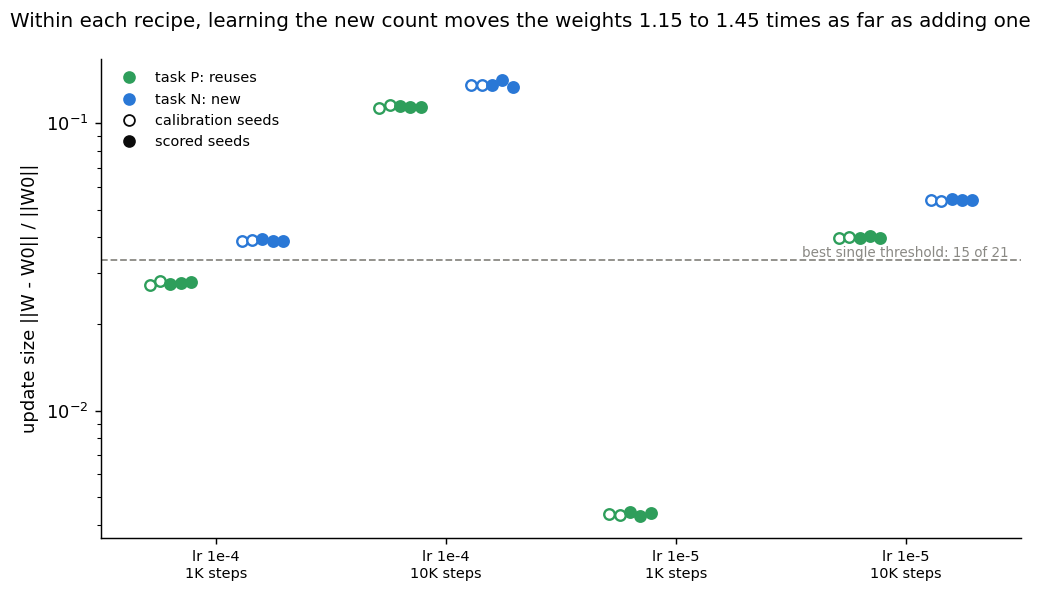
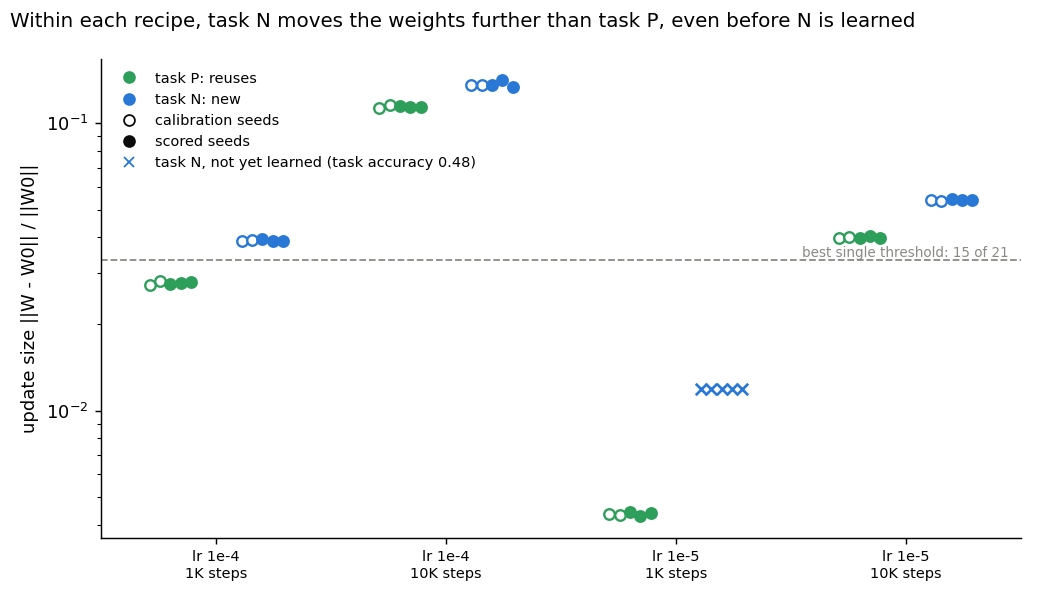
E55 C1b analysis: apply independent check (no scored reading in the calibration gap; post hoc labeller 18/18 + 3 by cell; unlearned N 1e-5 1K update size 0.0119 in table and figure; scored-only ranges; recipe-ceiling target missed; C1b's own steering noise 0.021)

diff --git a/experiments/pcfg_anchors/plot_c1b.py b/experiments/pcfg_anchors/plot_c1b.py
@@ -229,6 +229,19 @@ def fig_update_size(c: dict[str, Any], out: str = "c1b_update_size.png") -> None
                 lw=1.3,
                 zorder=3,
             )
+    for sid, place in c[
+        "placement"
+    ].items():  # task N at lr 1e-5, 1K: not yet learned, outside the truth set
+        if place == "not yet learned":
+            m = c["meta"][sid]
+            ax.scatter(
+                xpos(m, m["seed"]),
+                c["nuisance"][sid]["update_size"],
+                s=40,
+                marker="x",
+                color=NEW_C,
+                zorder=3,
+            )
     ax.axhline(t, color=MUTED, ls="--", lw=1)
     ax.text(
         3.45,
@@ -246,12 +259,13 @@ def fig_update_size(c: dict[str, Any], out: str = "c1b_update_size.png") -> None
     handles = [Line2D([], [], marker="o", ls="", color=EX_C, label="task P: reuses"),
                Line2D([], [], marker="o", ls="", color=NEW_C, label="task N: new"),
                Line2D([], [], marker="o", ls="", color=INK, mfc="white", label="calibration seeds"),
-               Line2D([], [], marker="o", ls="", color=INK, label="scored seeds")]  # fmt: skip
+               Line2D([], [], marker="o", ls="", color=INK, label="scored seeds"),
+               Line2D([], [], marker="x", ls="", color=NEW_C, label="task N, not yet learned (task accuracy 0.48)")]  # fmt: skip
     ax.legend(handles=handles, fontsize=8, frameon=False, loc="upper left")
     finish(
         fig,
         out,
-        "Within each recipe, learning the new count moves the weights 1.15 to 1.45 times as far as adding one",
+        "Within each recipe, task N moves the weights further than task P, even before N is learned",
     )
 
 

diff --git a/experiments/TRIED.md b/experiments/TRIED.md
@@ -110,7 +110,7 @@ Codes E1–E13 are the ones the research log ("Update Decomposition", see `READM
 | E53 Amendment 2 | Kind or breadth, settled with saved states: does the stand-in ratio separate a performed update from a new one when the two are equally broad? (`experiments/performed_anchor/run.py a2_read`, `score.score_amend2`, `performed.changed_mask`, 2026-10-30; plan `reports/plans/2026-10-29_plan_performed-anchor.md` section "Amendment 2", step 1 of the adopted programme `reports/plans/2026-10-30_plan_regating-development-FABLE-DRAFT.md`; predictions `results/predictions_amend2.json`; cluster debug L40, one job, $0; no fine-tune) | Stage 0 first: E53 lowercase/cipher s0 re-read (G, ratio, kl_off exact), E54 elicit/cipher s0 G within 0.02, corrected = uncorrected off-target KL bit for bit on both token-map ciphers, kl_read = split read on lowercase, changed mask ⊇ scored. Breadth = G / true off-target KL, now leaving out every position whose next token the task changed (lowercase: 13.4 changed-not-scored positions per window beside 9.9 scored). P1 (scored): min corrected lowercase breadth ≥ max broad-cipher breadth, step 300. P2 (scored): on E54's four saved states (elicit step 10, cipher step 9 at matched ‖δW‖, 97 held-out windows of 41 tokens, KL at every position but the key's), x = min elicit / max cipher breadth: ≥ 1 reversed, ≥ 1/1.5 matched, else confounded. Reading: P2 reversed or matched → breadth does not explain the separation; confounded and P1 missed → branch B (broader-cipher ladder). E54's stand-in ratios from its `stage2.json` cells (computed post hoc by the planner before filing; an input, not a filed prediction) | Ran (job 46174, commit e4b7965, results 5c311dd; 67 s, $0; analysis section "Amendment 2" of `reports/analyses/2026-10-29_analysis_e53-performed-anchor.md`, notebook part in `notebooks/E53_performed_anchor.ipynb`, figures `figures/a2_{breadth,ratio_breadth}.png` from `plot_amend2.py`). Stage 0 all passed (E53 repro exact; E54 G 10.796 vs 10.791, 11.100 vs 11.102; identity exact). **P1 missed** (as leaned, 0.7): corrected lowercase 6.57 / 5.87 (was 4.92 / 4.46; KL per changed position 1.00 / 1.04 nats, above the plan's 0.8, so s0 above the expected 5.4-6.0) vs broad cipher 7.81 / 7.74. **P2 reversed**, x = 2.21: E54 elicit 49.0 / 55.3 vs cipher 22.2 / 19.5 (off-target KL 0.22 / 0.20 vs 0.50 / 0.56 at matched G 10.8 vs 11.1 / 10.9), so the high-ratio member (elicit, ratio 0.956 / 0.951) is the MORE targeted one, against the cipher's 0.336 / 0.289. **Reading: breadth does not explain the separation.** Breadth compares within a pair only (E53 on 127-token Pile windows, E54 on 41-token marker windows after a recipe with a KL term) | Programme step 1 closed: the ratio orders by kind in both breadth orders across two task families, so it goes to step 2 (ratio and r on E55's labelled states) as a candidate reading of kind at VPD's piece level. Still open: E53's pair alone stays confounded (no Pile update as broad as lowercase read); E54's ratio is from its route-split cells, unread by E53's code and without an interval; "performed" in E54 is weak (rank 2-20); a new circuit from old pieces reads elicited; one mean steering vector moves a real part of E54's elicit map, its gap under E54's filed bar and a sixth to a tenth of r's gap in r's unit (E54 Amendment 1). Branch B not run |
 | E55 | Reuse anchors, Stage A: on Jain et al.'s counting grammar, does a fine-tune that learns to count b run through the model's existing count of a, judged by behaviour and an interchange patch with no decomposition? (`experiments/pcfg_anchors/`, `src/commute/pcfg.py`, `src/commute/interchange.py`, 2026-10-29; plan `reports/plans/2026-10-29_plan_reuse-stage1.md` Revision 1; predictions `results/predictions.json`, four filings, A2 bars filed before any fine-tune; analysis `reports/analyses/2026-10-29_analysis_e55-stage-a.md`, corrected after review `reports/reviews/2026-10-29_review_e55-stage-a-analysis.md`, notebook `notebooks/E55_pcfg_anchors.ipynb`, figures `figures/{controls,probe,labels,table6}.png` from `plot.py`, log figures from `plot_log.py`; MATS cluster debug, jobs a0 44244, a1 44268-44270, a1c 44306/44307, a2 44328-44330, $0) | minGPT 6 blocks d 192 (~3M), 50K pretraining steps, three Counter priors: LOW (counts a), HIGH (a, b, c), NEVER (b only). Fine-tunes to count b from LOW at lr {1e-4, 1e-5} × spurious share {0, 0.5, 0.8, 1} (Table 6 grid; spurious rows set count(b) = count(a) + 1), plus R from HIGH; seed 1 of N1 and W1; states at 1K and 10K. Checks at `=`: behaviour B (share answering count(a) + 1, or count(b)) and patch P (residual after block 5 swapped from a donor with the same other count; share following the donor), bars from A1 nulls and positives (count a: B 0.10/0.50, P 0.097/0.483; count b: B 0.342/0.635, P 0.10/0.50). Possession: linear probe margin over shuffled-label (and NEVER) controls, bar 0.5 × LOW's count-a margin | Controls clean: P at block 5 0.966 (LOW count a) and 1.000 (HIGH count b), every null 0 at every block; LOW's count-b accuracy 0.2215 = the score of answering count(a). PA1 pass. PA2 pass at the cap: 7 of 9 10K cells within 15 points; W1 17.7 (on the count(a) + 1 floor 17.65) and W2 25.95 miss. **PA3 missed, not reversed** (4 of 7): W1 1K through count a (B 0.88, P 0.72; seed 1 0.90, 0.76), W1 10K neither (0.40, 0.36, both seeds), W2 neither at 1K (B 0.488 vs hi 0.4999) and 10K; N1 not through at both (B = P = 0); R through count b. Every N and M state at 10K: B = P = 0 for count a, through count b; also loses LOW's count-a task (0.2175, as NEVER). Fast arms never through count a; the slow 80%-spurious arm M3 is through count a at 1K (B 0.631, P 0.594; the plan leaned this way for M2 and M3) and not through at 10K; M2 1K neither (P 0.519 over hi, B 0.430). W at 10K: last-block swap 0.64 (count a) and 0.57 (count b), so the answer depends on both. A count-c-only answer is ruled out for W1 at 10K: since a + b + c = 40, any f(count c) with B_b <= 0.01 reaches B_a <= 0.105 vs 0.399 read (65K windows, no model); the midpoint of count(a) + 1 and count(b), rounded towards count(a) + 1, gives (0.408, 0.000) and fits, untested. W2 10K (0.292, 0.102) not excluded. B and P never point opposite ways (null: 0 of 17). PA4 pass by its rule, narrowly: LOW count-b margin 0.277 at block 2 vs bar 0.260 (3 s 0.032); controls uneven (count-a margin also subtracts NEVER, which decodes count a at 0.44-0.52; count-b margin subtracts shuffled labels only; count(a) alone predicts count(b) at 0.40). Each A2 cell read once, binomial sd ~0.016 near 0.5; no count-a label rests on a cell within noise. Stage C truth set: 2 through (M3 1K, W1 1K), 9 not, 5 neither (plan expected 6/8/2); pass bar for n = 11 is 10. **Amendment 1** (`amend1.py`, `results/predictions_amend1.json` filed twice before the run, `results/amend1.json`, job 44439, $0, figures `amend1_{trajectory,rounding,offsets}.png` from `plot_amend1.py`): per-row answers on 8,000 natural rows against four rules (count(a) + 1, count(b), count(a), midpoint of count(a) + 1 and count(b) rounded towards count(a) + 1) plus a rounding read that separates the midpoint from count c alone. Controls all pass (6 synthetic answerers, N1 10K route b, LOW route a). AM1 met (W1, W1s1 1K route count(a) + 1, S 0.82, 0.86). **AM2 missed**: W1, W1s1 10K route mixed, S_mid 0.50 < 0.81; above count(a) + 1 they round as the midpoint (0.99, 1.00), below only 0.35, 0.37. AM3 10K met (W2 10K midpoint, S_mid 0.998, both halves), AM3 1K missed (W2 1K already mixed, S_a+1 0.15). AM4 met (no fixed rounding, so no count-c-only answer). AM5: re-run reproduces B, P within 0.002 but max abs dw 4e-4 to 2.4e-3 (sibling run; losses differ by step 500 on the same data, cause unmeasured: kernels, card, compile or resume steps); through count a at 2K, neither from 3K; rule switch missed. Exploration, not filed: W1 and W1s1 at 10K answer round((2(count(a) + 1) + count(b)) / 3), a third of the way from count(a) + 1 to count(b), on 97.8% and 98.1% of rows and on all 92 rows where it differs from the four rules; below count(a) + 1 they answer count(a) where count(b) is 1-3 below count(a), one step nearer count(a) + 1 than the midpoint. No A2 label changes. **Amendment 2** (`amend2.py`, `results/predictions_amend2.json` filed before the run, `results/amend2.json`, job 44520, $0, figures `amend2_{fresh,unseen}.png` from `plot_amend2.py`): the one-third rule filed and read on 20,000 fresh natural rows. All filed fresh-row predictions met: W1, W1s1 10K route third (S 0.991 on its 219 own rows, 0.977 and 0.981 of all rows, 0.21 over the best rule of count c alone); W2 1K third (0.982); W2 10K mid (S 1.0; mid 0.10 over count c alone); W1 1K still a+1. A within-pair replication only (fresh rows repeat amend1's (a, b) cells, code review finding 1). The unseen-pair read (8,949 rows built by a/c swaps, count a 2-9 or 17-24) was void: 0 rows where LOW answers count(a); model-free diagnosis, corrected after the independent check reports/reviews/2026-10-29_review_e55-amend2-analysis.md: rebuilt counts match (no bug), but the swap-built rows break both controls, more the larger the swap: N1's untouched count(b) is exact on 0.87 of rows at 2 letters swapped and 0.14 at 8; above 17 LOW answers roughly the pre-swap count(a) (mode 4 at a = 21-24), and fails all 341 rows in the in-range pair (17, 13); below 10 a clip near 10 may add. The two fresh rows in new pairs where third is distinct, (17, 10) and (17, 9), are answered 16 by every state following third, not its 15 (0 of 2). A natural-text unseen set in 5 in-range pairs costs CPU seconds to minutes; Amendment 3 (being written) builds it and checks Stage A's spurious-row accuracy by swap size, since the fine-tuning and spurious test rows use the same swap step. **Amendment 3** (`amend3.py`, `results/predictions_amend3.json` filed before the run with a dated addition after `reports/reviews/2026-10-29_review_e55-amend3-code.md`, `results/amend3.json`, job 44652, $0, figures `amend3_{swap,pairs}.png` from `plot_amend3.py`, log figure `log_amend3_swap.png`): natural rows in 15 rare pairs (8M texts, ≤ 200 rows per pair) and Stage A's 4,000 C_Te = 1 rows re-read by a/c swap size. All 18 controls pass. P1 met: LOW counts a on natural (17, 13) at 0.995 (0 of 341 swap-built), so the swap broke it, not the pair. P1b: LOW answers 10 at count a 9 (233 rows) and 17 at 18 (11 rows); N1 likewise answers 10 at count b 9 and 17 at 18 (both bases clip to 10-17, cause untested). P2 void at both seeds (1 valid new pair, (17, 10), of 6; the filed most-likely outcome); P2b met: at (17, 10) W1, W1s1 10K answer 16 on every row, not third's 15. Descriptive only, invalid pairs: W1 10K answers third at (15, 9), (17, 9), (9, 14), (9, 17), (9, 16), (11, 18), count a − 1 at (17, 10), (16, 9), (18, 11); W2 10K answers mid in every pair. Part 2: share right falls with swap size (within-b slope, drop over a swap of 3) for LOW count a (0.871, sd 0.018; overall 0.446: 1.00, 0.63, 0.18, 0.02 at swaps 0-3; P4 met, coverage far under the expected 0.85-0.95, pre-swap share falls, not rises), HIGH count a (0.870, overall 0.50), NEVER, HIGH count b, N1 and N1s1 10K (0.149, 0.168; P3 met), M 10K (0.105), R 10K (0.291) (P6b met: Stage A's spurious column for natural-only arms partly measures the swap); every arm trained on swap-built rows flat, 0.999-1.000 at 10K (P5 met) and W1, W1s1 1K 0.9945, M3 1K 0.985. P6a: B, P, nulls and references read natural text only (code path), so Stage A's labels stand; P6c qualified: LOW's own count gives the W arms' training label on under half of rows built that way (training rows 18% unswapped, same mix; not read directly), and the two "through count a" states (W1 1K, M3 1K; W1s1 1K reads the same) answer rows LOW miscounts right (99.1%, 98.2%; LOW + 1 on 0.3%, 0.5%), so they were pushed to change: either they answer swap-built rows through b (their natural-text count of a may be LOW's) or their count of a was strengthened (still "existing"); the design argument weakens, not the natural-text label; a patch check on swap-built rows decides it (independent check reports/reviews/2026-10-29_review_e55-amend3-analysis.md). **Amendment 4** (`amend4.py`, `results/predictions_amend4.json` filed before the run and amended before it after the code review: Part 2 rule "reads a" iff count a through and count b not through, since Stage A's rule reads W1 1K's natural count b "neither" at P_b 0.104; P1s void unless one-sided; LOW a description; rows count(a) + 1 in 10..17; `results/amend4.json`, outputs `results/large/amend4/outputs/`, job 44746, 48 s, $0, figure `amend4_offlabel.png` from `plot_amend4.py`): Stage A's two checks on off-label swap-built rows (natural texts, count a moved ±1-2 by the a/c swap step, count(a) + 1 ≠ count(b), count(a) ≠ count(b); 1,000 rows for B, 1,000 pairs per count for P, block 5), where R-a (strengthened count of a) answers count(a) + 1 and R-b (separate count of b) answers count(b). All 26 controls pass (LOW natural P_a 0.959; every natural P reproduces a2 exactly). Part 2 scored, valid (N1 1K B_b 0.906, P_b 0.766, reads b). **P1 met** (lean 55%): W1 1K B_a 0.671, P_a 0.505 (bar 0.483, by 0.022, sd ~0.016), B_b 0.001, P_b 0.191, reads a; **P1s met** (85%): W1s1 1K 0.696, 0.496, 0.001, 0.188, reads a; **P2 missed**: M3 1K B_a 0.466, P_a 0.459 (both just under the bars), B_b 0.078, P_b 0.388, neither (the 35% second lean). W1 10K neither (0.187, 0.499; 0.001, 0.310); LOW neither (B_a 0.266, not the expected ~0: LOW lags the swap by about one letter). Part 1 (Stage A's swap-built test rows, natural donors) described only, non-separating as filed: W1, W1s1 reads a, M3 neither, N1 reads b, LOW both. Exploration on the saved outputs: every W1 1K answer that is not count(a) + 1 lies one step towards count(b) (count(a) 0.285, count(a) + 2 0.042), towards b and not the pre-swap text where they differ (138 rows); W1 1K right on ~0.90 of rows with letters removed, 0.58 and 0.33 with one and two added (LOW's own count 0.35 overall); W1 10K follows the one-third rule on 0.958 of off-label rows. Reading: the early all-spurious anchors answer swapped text mostly through a strengthened count of a ("existing"), not a separate count of b, narrowly and with a pull from b; M3 1K does not keep the label there. No positive control for count a on swapped text. **Amendment 5** (plan `reports/plans/2026-10-30_plan_e55-amend5-natural-anchors.md` Revision 1, `amend5.py`, `results/predictions_amend5.json` filed before the run and amended twice before it: P5 lean 85% -> 65% and void only if ID fails at every save; after `reports/reviews/2026-10-30_review_e55-amend5-code.md`, shortcut share conditioned on the label, bar 0.5, P4 scored at 1K; `results/amend5.json`, jobs 46022 (controls, 38 s) and 46023 (arms, 6 min 21 s), $0, figure `amend5_saves.png` from `plot_amend5.py`; analysis `reports/analyses/2026-10-30_analysis_e55-amend5.md`): from LOW, natural rows rejection-sampled for count(b) = count(a) + 1 (labels 13-15, 14 on 69%), WN lr 1e-5 seeds 0-3, WNf lr 1e-4 seed 0, ID count(a) under T a 40 (lr 1e-5, seeds 0, 1); Stage A's 10K schedule cut at 2K (saves 500, 1K, 2K, all in warm-up). W0 all met (B_a 0.99975, P_a 0.960, coverage 1.0 of 38,400, LOW B_a at T a 40 0.000; P_a there 0.655, already over the bar). **P1, P2 met** (4 of 4 each): WN reuses at every save (1K B_a 0.976-0.981, P_a 0.898-0.911, count b not through; 2K P_a 0.748-0.804). **P3 met**: WNf 1K reuses (0.843, 0.627; count b neither, P_b 0.190); 500 reuses; 2K neither (0.407, 0.373; P_b 0.367), within 0.02 of W1 10K on count a, unfiled. **P4 met**: shortcut share 0 at every save (LOW 0.248), training accuracy 1.0 everywhere. **P5 met**: ID through count a at every save, both seeds (B 1.0, P 0.898-0.921). D1: WN off-label B_a ~0.30 vs LOW 0.266 (W1 1K 0.671), all neither. "Reuses" near guaranteed by construction; value as anchors. | The ground truth works but gives only two "existing" states; Amendment 1 shows the all-spurious states at 10K answer a function of two of the three counts that no single count explains (best one-count rule 0.79 of rows vs 0.978; which two, behaviour cannot tell, since a + b + c = 40; count a as one of them rests on LOW's prior), a candidate third class rather than "existing" anchors. Next: the user decides Stage C's truth set (keep 11 labelled states; add a third class "answers a function of two counts, not of the old count alone" holding W2 10K and, W1 10K, now filed and met on fresh rows within the same pairs; or score the W arms as a separate test); W2 1K matches the one-third rule on 0.899 of rows before moving to the midpoint, and W1's lower half is still rising at 10K (0.113, 0.198, 0.356 at 5K, 7K, 10K), both bearing on that choice; more "existing" anchors need more seeds of W1 at 1K-2K (the window closes by 3K), trained on natural rows with count(b) = count(a) + 1 by rejection sampling (about 1 natural text in 5; LOW right on all 760 such test rows) rather than a/c swaps (Amendment 3; cost: labels almost all 13-15, 14 on 67%, vs the matched 10-17 spread, so a constant-14 shortcut; or mix in other natural rows); the one-third rule has no further in-range pair to test on these bases; after Amendment 4 the two all-spurious anchors keep "existing" on swapped text, as a strengthened count of a with a pull from b, and M3 1K reads neither there; next options: natural-row re-run of W1 at 1K-2K, or the same off-label read at 3-7 swapped letters ($0); after Amendment 5 (option C done): the "reuses" side is 16 states from 8 independent runs (5 natural-row, 4 recipes in all), so next is Stage C as option A with B once the pass bar is re-set for the new set, plus a row-by-row read of WNf 2K (third-class candidate) and WN read to 10K ($0) |
 | E55 C1 (+ Amendment 5b) | Reuse line, Stage C1: do three instruments without a decomposition (Jain et al.'s Alg. 3 pruning revival, reverse fine-tuning against a scratch model, E52's mean-shift steering) label the E55 truth states "existing" vs "new" better than chance and better than labellers that read only the recipe? Amendment 5b first added fast natural-row seeds 1-3 (`experiments/pcfg_anchors/c1.py`, `amend5b.py`, `src/commute/revival.py`, 2026-10-30; plan `reports/plans/2026-10-29_plan_reuse-stage1.md` Stage C, user's truth-set decision in `decisions.md`; predictions `results/predictions_c1.json`, `predictions_amend5b.json`, filed at 97b7183; code review `reports/reviews/2026-10-30_review_e55-c1-code.md`, fixes 8de9324; analysis `reports/analyses/2026-10-30_analysis_e55-c1.md`, notebook section "Stage C1", figures `figures/c1_{scores,prune,reverse,steer}.png`, `amend5b_saves.png` from `plot_c1.py`; MATS debug jobs 46105, 46106, 46107, 46121, $0) | Truth: 26 scored states (15 reuses: Stage A W1, W1s1, M3 at 1K, WN s0-s3 at 1K and 2K, WNf s0-s3 at 1K; 11 new: N1, N1s1, N2, N3 at 1K and 10K, M, M2, M3 at 10K), R for steering only, 10 class B unscored. Pruning: top-K of 4,608 MLP units by grad . w, K 5/15, vs 20 random draws, existing iff gain >= 3 sd. Reverse: Stage A recipe at fine-tune lr / 10 to 95% count a, existing iff <= half of NEVER's steps (cap 10K). Steering: gain share S of the tuned answer's log P at the best block, existing iff S >= 0.5. Pass: binomial bar and >= better nuisance labeller (<= 1K steps; lr <= 1e-5) + 2; per run + 1 | Controls held (importance pruning on LOW drops 229 / 816 of 4,000 rows vs a 3-row bar: near-vacuous; scratch 2,300 steps at 1e-5, cap at 1e-6). Every state: prune 20/26 (bar 18, slow labeller 19, needs 21), reverse 17/26 (bar 18), steer 21/27 (bar 19, slow 20, needs 22): **no instrument passes** (leans 20/20/40%). Per run: prune 14/17 and steer 16/18 pass, reverse 12/17 fails. Steering's miss rests on R/10K (G 0.002, unreadable); without it, post hoc, 21/26 meets 21. Labels err toward "existing" (reverse 24 of 26). Not filed: every raw reading separates the truth with no overlap (prune gain 0.354-0.748 vs <= 0.082; reverse steps/scratch <= 0.152 vs >= 0.180; S >= 0.836 vs <= 0.669), so the cut-offs, set loosely, not the instruments, failed; gaps fitted to these states and confounded with row source at 1e-4. Amendment 5b P1 met 3/3 (reuses at 1K; neither at 2K, as seed 0; seed 3's patch by 0.027). | No non-VPD instrument beats the recipe-only labellers under the filed rules; the truth set's recipe confound is the binding constraint. Next: C2 (VPD) scored against the same labellers after the user's go-ahead; a filed rerun with cut-offs set on other states ($0); a truth set without the confound (late reuses, early new) |
-| E55 C1b | Reuse line, Stage C1b: with cut-offs set on held-out seeds, do pruning revival, reverse fine-tuning (one rate, 1e-5) and steering label "reuses" vs "new" on a truth set fixed by the fine-tuning task, at matched lr, steps and data, better than recipe-only labellers? (`experiments/pcfg_anchors/c1b.py`, `src/commute/revival.py`, 2026-10-30; plan `reports/plans/2026-10-30_plan_e55-c1b-refined-instruments.md`; predictions `results/predictions_c1b.json` filed b118997, amended c6ec7d2 before any job; cut-offs `results/c1b_cutoffs.json` committed d361649 before any scored reading; code review `reports/reviews/2026-10-30_review_e55-c1b-code.md`; analysis `reports/analyses/2026-10-31_analysis_e55-c1b.md`, notebook section "Stage C1b", figures `figures/c1b_{readings,scores,update_size}.png` from `plot_c1b.py`; MATS debug jobs 46330-46499, $0) | Task P (count a + 1 on every natural `C b 40` row: reuses) vs task N (count b: new), lr 1e-4/1e-5 x saves 1K/10K x seeds 0-4; seeds 0-1 calibrate (14 states), 2-4 scored (21; N 1e-5 1K not yet learned). No swap-built rows. Cut-off = midpoint of the calibration gap. Pass: binomial bar and >= best of lr / steps / update size (hindsight threshold) + 2; per run + 1. Possession probe (LOW residual -> state's answers) reported as task-identity reference, not scored | Controls held; 0 construction-check disagreements. Calibration separated perfectly for all four (prune c 0.222, reverse 0.272, steer 0.742, probe 0.474). Scored: prune, reverse, steer each **21/21** (bar 15, best recipe labeller update size 15, needs 17) and 12/12 per run (needs 10): **all three pass** (leans 60/45/60%). Margins wide: steering nearest 0.088/0.086 from c (~3x its 0.03 noise), prune 0.38/0.14, reverse 325 steps each side. But the set is degenerate: every state performs one of two tasks perfectly, so the answer-only probe also gets 21/21, and post hoc update size with one cut-off per recipe cell set on seeds 0-1 also gets 21/21 (N's update 1.15-1.45x P's in every cell). C1's states re-labelled (described): prune 26/26, steer 26/26, reverse 10/12 | The cheap instruments tell count a + 1 from count b; C1's misses were its guessed cut-offs. But label = task identity here, so any task reader ties them and VPD (C2) can at best tie on this set. Next: decide what C2 can show; a truth set with matched answers and different mechanisms (e.g. task P from NEVER vs from LOW), via /design; add within-recipe update size to the nuisance labellers or argue it is a real signal |
+| E55 C1b | Reuse line, Stage C1b: with cut-offs set on held-out seeds, do pruning revival, reverse fine-tuning (one rate, 1e-5) and steering label "reuses" vs "new" on a truth set fixed by the fine-tuning task, at matched lr, steps and data, better than recipe-only labellers? (`experiments/pcfg_anchors/c1b.py`, `src/commute/revival.py`, 2026-10-30; plan `reports/plans/2026-10-30_plan_e55-c1b-refined-instruments.md`; predictions `results/predictions_c1b.json` filed b118997, amended c6ec7d2 before any job; cut-offs `results/c1b_cutoffs.json` committed d361649 before any scored reading; code review `reports/reviews/2026-10-30_review_e55-c1b-code.md`; analysis `reports/analyses/2026-10-31_analysis_e55-c1b.md`, notebook section "Stage C1b", figures `figures/c1b_{readings,scores,update_size}.png` from `plot_c1b.py`; MATS debug jobs 46330-46499, $0) | Task P (count a + 1 on every natural `C b 40` row: reuses) vs task N (count b: new), lr 1e-4/1e-5 x saves 1K/10K x seeds 0-4; seeds 0-1 calibrate (14 states), 2-4 scored (21; N 1e-5 1K not yet learned). No swap-built rows. Cut-off = midpoint of the calibration gap. Pass: binomial bar and >= best of lr / steps / update size (hindsight threshold) + 2; per run + 1. Possession probe (LOW residual -> state's answers) reported as task-identity reference, not scored | Controls held; 0 construction-check disagreements. Calibration separated perfectly for all four (prune c 0.222, reverse 0.272, steer 0.742, probe 0.474). Scored: prune, reverse, steer each **21/21** (bar 15, best recipe labeller update size 15, needs 17) and 12/12 per run (needs 10): **all three pass** (leans 60/45/60%). Margins wide: steering nearest 0.088/0.086 from c (~4x its 0.021 noise), prune 0.38/0.14, reverse 325 steps each side. But the set is degenerate: every state performs one of two tasks perfectly, so the answer-only probe also gets 21/21, and post hoc update size with one cut-off per recipe cell (2 calibration states per class) gets 18/18 in two-class cells plus 3 by cell membership (N's update 1.15-1.45x P's in every cell, 2.7x even for unlearned N at 1e-5 1K). C1's states re-labelled (described): prune 26/26, steer 26/26, reverse 10/12 | The cheap instruments tell count a + 1 from count b; C1's misses were its guessed cut-offs. But label = task identity here, so any task reader ties them and VPD (C2) can at best tie on this set. Next: decide what C2 can show; a truth set with matched answers and different mechanisms (e.g. task P from NEVER vs from LOW), via /design; add within-recipe update size to the nuisance labellers or argue it is a real signal |
 | E54 | Key-dependent elicit pair: does the route split's re-gating share r read a key -> value map the original model already half-knows as "elicited" and a cipher on the same keys as not, where steering (one mean vector) should fail on both? (`experiments/keydependent_elicit/`, `src/commute/elicit.py`, `src/commute/steering.py` (E52's B3, moved), 2026-10-30; plan `reports/plans/2026-10-29_plan_e54-keydependent-elicit.md`, option C of `decision-e52-p4`, confirmed by the user 2026-10-30; predictions `results/predictions.json`; `cluster/keydependent_elicit.sbatch 01` then `2`, MATS debug L40, $0) | Keys: E12's word-like tokens of frequency rank 100-1099; each key's value is W0's most probable word-like rank 2-20 next token after "M x" with P in [0.01, 0.1] and at least 10 times its median over the other keys (top-1 excluded, user); 32 keys by a seeded draw. Filed rate: W0's held-out geometric-mean P(target) in [5e-3, 0.1]; cipher on the same keys (E12's pool and gate) below 1e-4. E12's arm-A recipe, seeds 0, 1; the cipher read at the step whose summed Frobenius norm of delta-W matches the elicit state's (user), and at its own E12 step. Stage 0 alone first: E46's r and E52's S on saved ident32_s0, rand32_s0. P1 r separates elicit higher; P2 S does not separate and every S <= 0.3; P3 the cipher's r within 0.1 between matched and own step; P4 not run (E52 Amendment 1 found no working prompt format) | Run 2026-10-30 (jobs 45963, 45973, 45974; analysis `reports/analyses/2026-10-30_analysis_e54-keydependent-elicit.md`, notebook `notebooks/E54_keydependent_elicit.ipynb`). Stage 0 matched every reference. Stage 1 first stopped on the elicit rate (held-out geometric mean 1.70e-3 < 5e-3; selection used the arithmetic mean, 0.032); the user lowered the floor to 1e-3 after seeing the value, same keys and values. r: elicit 0.773, 0.758 vs cipher at matched size (step 9) 0.241, 0.212, gap 0.54: P1 pass. S: elicit 0.380, 0.394 vs cipher 0.228, 0.185, gap 0.18 < 0.2 and elicit over the 0.3 cap: P2 FAILS (predicted pass). P3 pass (cipher r moves 0.02-0.03 to its own step 30, where its S drops to 0.11, 0.07). | User reading (decisions.md 2026-10-30): P2 stays failed; the route split separates the pair more clearly than steering (margin ~1.7x to over 10x depending on units and cipher checkpoint), and one mean vector moves a real part of the elicit map. Both halves of the P2 miss depend on choices: the cap miss mostly on the nats unit (the vector moves both tasks ~2.5 nats), "no separation" on the matched cipher being part-learned (at its own step S 0.114, 0.066 would separate). Next, provisional: the same pair on Qwen, and Jain et al. readout check on the elicit keys |
 | E54 amend 1 | Steering's share in the route split's unit: how far apart are steering's S and the re-gating share r on the elicit pair when both are shares of a log-odds gain? (`experiments/keydependent_elicit/amend1.py`, `src/commute/steering.py` steer_at/logodds_at, `src/commute/elicit.py` score_amend1, 2026-10-30; plan `reports/plans/2026-10-29_plan_e54-keydependent-elicit.md` section "Amendment 1", approved class 1; predictions `results/predictions_amend1.json`; `cluster/keydependent_elicit_amend1.sbatch`, MATS debug L40, $0, ~2-4 min) | E54's six saved weight changes. S_lo = B3's steered rise in log-odds of the target over the fine-tune's log-odds gain, scoring half, B3's vector and block unchanged; r from stage2.json. Stage 0 alone first: sha256, B3's block and S, and steer_at's log P path all reproduce stage2.json within 1e-6. P1-lo S_lo does not separate elicit from the matched cipher (expected 0.25, 0.25 vs 0.22, 0.18); P2-lo r - S_lo >= 0.3 on both elicit states (expected 0.52, 0.51); P3-own S in nats separates elicit from the cipher at its own step (already known from stage2.json: gap 0.296) | Ran 2026-10-30, MATS debug job 46070, $0 (`results/amend1.json`, results commit f71d0c3; analysis `reports/analyses/2026-10-30_analysis_e54-keydependent-elicit.md` section "Amendment 1"; figure `figures/a1_units.png`). Stage 0 dS = 0 on all six, sha256 matched. S_lo elicit 0.246, 0.252 vs matched cipher 0.219, 0.175, gap 0.052 under range 0.043 + min 0.2: P1-lo pass (no separation). r - S_lo elicit 0.526, 0.506: P2-lo pass. P3-own gap 0.296, elicit higher: pass (not a test). Log-odds gain through steer_at vs route_split's G_logodds agree within 1.4e-4 to 4.7e-4 relative (reported, not a stop) | Ratio of gaps r / S_lo in one unit measured at 10.3x (was estimated "over 10x"); headline unchanged. Elicit S_lo 0.25 is under the 0.3 cap that S in nats missed, supporting "the P2 cap miss is mostly the nats unit" (P2 stays failed as filed). The ratio is noisy: the S_lo gap is barely above its seed range |
 | E60 | Re-gating step 2, the table fill: stand-in ratio, r and steering share S for the 18 saved 67M runs (E46 copy and random maps, E53 lowercase, cipher and broad cipher, E54 elicit and cipher; two seeds each), so the three readings can be scored against the reuse line's labels when they exist (`experiments/regating_truth_table/`, `keydep.steer_reading` taken out of `keydep.readings`, 2026-10-30; plan `reports/plans/2026-10-30_plan_regating-ground-truth.md`, approved via `decisions.md` 2026-10-30 (Fable's advice item 2); predictions `results/predictions.json`; `cluster/regating_truth_table.sbatch`, MATS debug L40, $0, saved states only) | Found while coding: only S on E53's six step-300 states is empty on disk. E46's S is read on all eight runs (E52); r on E53 is g / G of E53's saved split cells (the route split's quantity by the same masked forward); the broad cipher's ratio is in `read_amend1b.json`. The job: stage 0 alone (sha256 of all 18 states, zero update exact, E53 lowercase_s0 ratio 0.9186 ± 0.01 and r 0.7519 ± 0.01, E54 elicit_s0 r 0.7726 ± 0.03 and S ± 0.001, E46 ident32_s0 r 0.8024 ± 0.03 and S 0.7503 ± 0.001, the next-token steering path's log-odds gain equal to the split read's G within 0.02), then S on the six E53 states (expected lowercase 0.4-1.0, cipher 0-0.35, broad cipher 0-0.3, reported only), then `table.json` with every cell's source. The label predictions P1-P3 are not filed: no 67M run has a label yet | Ran 2026-10-30, MATS debug job 46258 (job 46252 crashed loading E53's module, fixed in 1341411), ~90 s, $0; results commit d040fb8; analysis `reports/analyses/2026-10-30_analysis_e60-regating-table.md`, notebook `notebooks/E60_regating_table.ipynb`, figures `figures/{table_shares,gaps,lowercase_S}.png` from `plot.py`. Stage 0 all pass: 20 sha256 match, zero update 0.0 on five tasks, the three reference runs identical to their saved values, next-token path log-odds gain 1.6721 vs split G 1.6708 (diff 0.0013, tol 0.02; the 1.5914 beside it is the log-P gain, S's unit, not compared). Stage 1 S: lowercase 0.321 / 0.303, under the filed 0.4-1.0 (reported surprise, not a stop); cipher 0.105 / 0.091, broad cipher 0.159 / 0.155, inside; order as expected (0.303 > 0.159). Every lowercase/cipher run picks block 3 (as E46 random maps and E54 cipher); copy and elicit block 2. Table (ratio / r / S): E46 copy 0.87-0.97 / 0.76-0.80 / 0.72-0.80; E46 random 0.36-0.41 / 0.27-0.29 / 0.10-0.19; E53 lowercase 0.92-0.93 / 0.75-0.77 / 0.30-0.32; E53 ciphers 0.26-0.29 / 0.12-0.17 / 0.09-0.16; E54 elicit 0.95-0.96 / 0.76-0.77 / 0.38-0.39; E54 cipher 0.29-0.34 / 0.21-0.24 / 0.18-0.23. Per family, lowest reuse run minus highest new run: ratio 0.46 / 0.63 / 0.62, r 0.47 / 0.59 / 0.52, S 0.53 / 0.14 / 0.15 (E46 / E53 / E54; S in log P, r and ratio in log-odds); every gap over its larger seed range (<= 0.10). Construction AUC 1 for all three; orientation only, under the plan's unfiled 0.5 cut-off ratio and r match 16/16 construction labels, S 14/16 (both lowercase runs "new"). Review notes carried: tolerance cites E53 A2 instead of E54 A1's measured 0.0025-0.005 floor; E53's fit and scoring halves are neighbouring windows of the same documents (S biased up, size unmeasured) | No labels, so nothing scored: the table is ready for E58's behavioural labels and the reuse line's Stage B. Descriptive: the two decomposition readings separate all three families widely; steering keeps the order but its gap narrows to 0.14-0.15 on E53's and E54's pairs (log P unit; not comparable in size to r's), and lowercase is the first built-to-reuse task that steering puts under 0.5. Next: E58's open pair; S in log-odds on E53's six runs ($0) |

diff --git a/reports/analyses/2026-10-31_analysis_e55-c1b.md b/reports/analyses/2026-10-31_analysis_e55-c1b.md
@@ -87,6 +87,8 @@ Every P state reached task accuracy 1.000 at 10,000 steps, and at least 0.9987 a
 construction. As expected, task N at 1e-5 had not learned by 1,000 steps in any seed, at 0.48 accuracy, so the
 scored set is 21 states. The learning rate and step count labellers each reach 12 of 21, the size of the larger
 class. The update-size labeller reaches 15, the branch the filing gave 40%. A method therefore needed 17 of 21.
+The plan's design target was a recipe ceiling of at most 12 of 21, so that a perfect method would win by 8. That
+target was missed: at 15 the best possible margin was 6.
 
 | control | reading | expected | stop or void if | verdict |
 |---|---|---|---|---|
@@ -108,18 +110,20 @@ class. The update-size labeller reaches 15, the branch the filing gave 40%. A me
 **Reading it.** Yes, for all three, and with a wide gap. Each panel groups the states by recipe, task P in green on
 the left of each group and task N in blue on the right. Hollow points are the calibration seeds that set the red
 cut-off; filled points are the scored seeds. Every filled green point sits on the "reuses" side and every filled
-blue point on the "new" side. The scored points also fall inside the ranges the calibration seeds had marked out.
+blue point on the "new" side. No scored reading falls inside the gap the calibration seeds left between the classes.
 
 Steering sits closest to its line. Its nearest scored states are 0.088 above and 0.086 below the cut-off. Its
-noise is the difference between its fit and score halves, at most 0.03 in C1, so the nearest point is about three
-noise widths away. Pruning's nearest states are 0.38 above and 0.14 below its cut-off, where 20 random removals
+noise is the difference between its fit and score halves, at most 0.021 on the scored states. So the nearest point
+is about four noise widths away. Pruning's nearest states are 0.38 above and 0.14 below its cut-off, where 20 random removals
 spread over at most 0.05 on any state. Reverse fine-tuning's nearest states are 325 steps either side of its cut-off at 625 steps,
 where steps are counted in units of 50.
 
 The two reference lines frame each reading. Random removal of as many units revives nothing, so pruning's zero line
-is what an unrelated state reads. Every P state revives 0.60 to 0.92 of count a; every N state 0.06 to 0.08. Scratch
+is what an unrelated state reads. Every scored P state revives 0.60 to 0.92 of count a; every scored N state 0.06
+to 0.08. One calibration P state, lr 1e-4 seed 1 at 10,000 steps, revives only 0.36. Scratch
 needs 2,300 steps, the reverse panel's line at 1. P states need 250 or 300 steps, N states 950 to 1,500. The
-identity-prompt fine-tunes read a gain share of 0.93. P states read 0.83 to 0.96 and N states 0.47 to 0.66.
+identity-prompt fine-tunes read a gain share of 0.93. Scored P states read 0.83 to 0.96 and scored N states 0.47
+to 0.66.
 
 Steering falls with training length in both classes, as in C1. That is why C1's fixed line of 0.5 behaved like a
 step-count labeller. The calibrated line sits in the gap between N at 1,000 steps and P at 10,000.
@@ -142,8 +146,10 @@ requirement of 17. On one vote per run each agrees on 12 of 12, against 10. So t
 labellers is 6 states, not the bare 2 the rule asked for.
 
 The hatched bars are not scored. The probe, which reads only the state's answers, also agrees on 21 of 21. The last
-bar is post hoc: update size with one cut-off per recipe, each set on the calibration seeds by the instruments' own
-rule. It also agrees on 21 of 21 and 12 of 12. Both readers tie the three methods.
+bar is post hoc: update size with one cut-off per recipe cell, at the midpoint of the gap between 2 calibration
+states per class. That is below the filed minimum of 3 per class, so it is not the instruments' rule. It gets 18 of
+18 in the three cells that hold both tasks. The other 3 come from cell membership alone: at lr 1e-5 and 1,000 steps
+only P states learned, so the cell is labelled "reuses" whatever their size. Both readers still tie the methods.
 
 | method | score | n | agree | binomial bar | lr | steps | update size | needed | passes |
 |---|---|---|---|---|---|---|---|---|---|
@@ -165,22 +171,24 @@ reuses". Per run, lr and steps fall to the constant labeller, 6 of 12.
 
 ![Update size per state, grouped by recipe](../../experiments/pcfg_anchors/figures/c1b_update_size.png)
 
-**Reading it.** Learning the new count moves the weights further than adding one, at every recipe. The vertical
-axis is the update size on a log scale; LOW's own update is zero. Within each recipe group, every blue N state sits
-above every green P state. The N update is 1.15 to 1.45 times the P update, depending on the recipe; the table
+**Reading it.** Task N moves the weights further than task P at every recipe, even before N has learned. The
+vertical axis is the update size on a log scale; LOW's own update is zero. Within each recipe group, every blue N
+state sits above every green P state. The N update is 1.15 to 1.45 times the P update, depending on the recipe; the table
 below gives each. Across recipes the sizes span a factor of 30. So no single threshold separates the tasks, and the
-grey line, the best one, gets 15 of 21.
+grey line, the best one, gets 15 of 21. The blue crosses are the five N states at lr 1e-5 and 1,000 steps, outside
+the truth set because their task accuracy is only 0.48. Their update is already 0.0119, 2.7 times P's in that cell.
 
 So the filed ceiling, one threshold per labeller, is beaten, but a labeller that reads the update size and the
-recipe together is not. The plan named update size as a nuisance. It may instead be a real signal: a new count may
-simply need a larger change than a constant shift of an old one. Either way it needs only the weights and no
-reading of the model's activations, and VPD would have to beat it.
+recipe together is not. The plan named update size as a nuisance. The unlearned N states argue that it is one: the gap
+is there before the new count exists. It fits how far each task's training signal pushes from LOW, since P is one
+relabelling away from what LOW already answers, better than the size of a finished new capability. Either way it
+needs only the weights and no reading of the model's activations, and VPD would have to beat it.
 
 | recipe | P update size, 5 seeds | N update size, 5 seeds | ratio N / P |
 |---|---|---|---|
 | lr 1e-4, 1K | 0.0273-0.0283 | 0.0388-0.0394 | 1.37-1.44 |
 | lr 1e-4, 10K | 0.1124-0.1154 | 0.1331-0.1409 | 1.15-1.25 |
-| lr 1e-5, 1K | 0.0043-0.0044 | not yet learned | - |
+| lr 1e-5, 1K | 0.0043-0.0044 | 0.0119, not yet learned, task accuracy 0.48 | 2.7-2.8 |
 | lr 1e-5, 10K | 0.0397-0.0404 | 0.0537-0.0543 | 1.33-1.37 |
 
 ### Every scored state
@@ -237,12 +245,13 @@ cannot show that it is better, because the ceiling is already reached.
   of a on every natural row. Every N state answers the count of b. The probe reads 0.6685 on all 20 P states, to
   four decimals, because their answers are identical. So "reuses" and "performs task P" coincide on every state. A
   method that reads only which task was trained cannot be told apart from one that reads the mechanism.
-- **The margins are wide, not knife-edge.** The closest method, steering, sits about three noise widths from its
-  cut-off on both sides. Pruning and reverse fine-tuning sit much further away. Every scored reading lies within
-  the range its calibration seeds marked out.
+- **The margins are wide, not knife-edge.** The closest method, steering, sits about four noise widths from its
+  cut-off on both sides. Pruning and reverse fine-tuning sit much further away. No scored reading falls inside the
+  gap the calibration seeds left between the classes.
 - **The nuisance margin is not the weak point as filed.** The best filed labeller, update size, reaches 15 of 21.
-  The methods clear it by 6, three times the required margin. The weak point is the post hoc labeller that reads
-  update size within a recipe. It reaches 21 of 21 with cut-offs set on the calibration seeds.
+  The methods clear it by 6, three times the required margin, though the plan aimed for a ceiling of 12 and a
+  margin of 8. The weak point is the post hoc labeller that reads update size within a recipe. It gets 18 of 18 in
+  the cells that hold both tasks, and the other 3 by cell membership.
 - **No swap-built rows.** Every training row, every evaluation row and every probe row is natural `C b 40` or
   `C a 40` text: `task_rows`, `eval_seqs` and `rft_rows` all draw with no swapped rows. The steering rows are natural
   texts, filtered to drop those whose count of b already equals the count of a plus one. Only the C1
@@ -256,9 +265,9 @@ cannot show that it is better, because the ceiling is already reached.
 
 ## Surprises
 
-- The update size separates the two tasks perfectly within every recipe, by a factor of 1.15 to 1.45. The filing
-  gave 40% to update size reaching 15 of 21 on a single threshold, which happened; it did not consider a
-  within-recipe reading.
+- The update size separates the two tasks perfectly within every recipe, by a factor of 1.15 to 1.45. The gap is
+  there even for N states that have not learned, at 2.7. The filing gave 40% to update size reaching 15 of 21 on a
+  single threshold, which happened; it did not consider a within-recipe reading.
 - The filing's lean on the truth set called the update size reaching 15 and the "no method can pass" stop "the same
   event". They are not. At 15 the requirement is 17, which is possible, and the stop did not fire.
 - The probe on LOW's own count of a read 0.6645, just above its expected range of 0.45 to 0.65. The void bar was 0.4;
@@ -289,7 +298,7 @@ cannot show that it is better, because the ceiling is already reached.
 | PC2 | reverse fine-tuning at one rate beats chance and the recipe by 2 | same, low = existing | 21 of 21; needs 17. Per run 12 of 12 | met, 45% lean |
 | PC3 | steering beats chance and the recipe by 2 | same | 21 of 21; needs 17. Per run 12 of 12 | met, 60% lean |
 | PC4 | the probe agrees with the task, a reference only | `rules.cutoff`, `label`; never a pass | 21 of 21; P 0.6685 every state, N 0.277-0.2785 | as expected; not a benchmark result |
-| post hoc | update size, one cut-off per recipe set on seeds 0-1 | not filed | 21 of 21; per run 12 of 12 | ties the three methods |
+| post hoc | update size, one cut-off per recipe cell from 2 calibration states per class | not filed | 18 of 18 in two-class cells, plus 3 by cell membership: 21 of 21; per run 12 of 12 | ties the three methods |
 
 ## Departures from the literature
 
